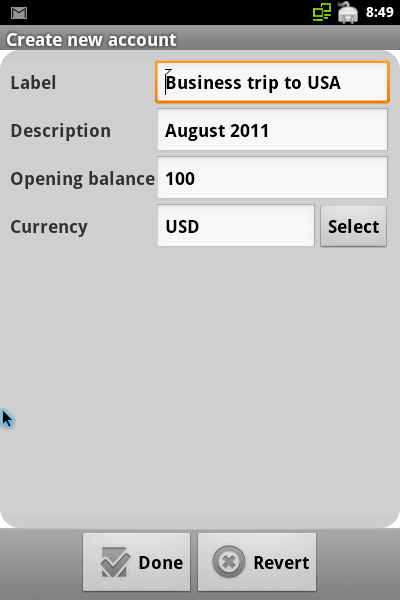
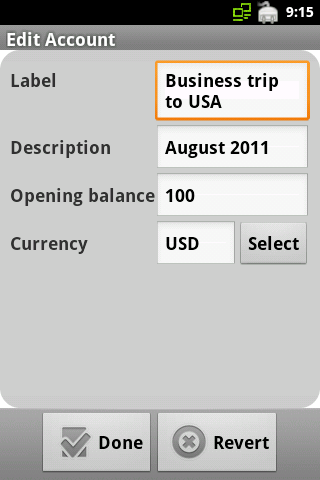
generated from SHA: 4768e51; screenshots in dimensions required by Google play,

diff --git a/index.html b/index.html
@@ -71,19 +71,19 @@
         If you are adventurous, you can try an alpha release of a new versions in the <a href="https://github.com/mtotschnig/MyExpenses/downloads">Downloads</a> section.
       </p>
       <h2>Screenshots</h2>
-      <div style="display:block;text-align:center"><img alt="Screenshot 1" src="expense-list.png" height="420" width="280" /></div>
+      <div style="display:block;text-align:center"><img alt="Screenshot 1" src="expense-list.png" height="480" width="320" /></div>
       <div style="text-align:center">List of expenses
       </div>
-      <div style="display:block;text-align:center"><img alt="Screenshot 2" src="edit-expense.png" height="420" width="280" /></div>
+      <div style="display:block;text-align:center"><img alt="Screenshot 2" src="edit-expense.png" height="480" width="320" /></div>
       <div style="text-align:center">Edit expense
       </div>
-      <div style="display:block;text-align:center"><img alt="Screenshot 3" src="category_select.png" height="420" width="280" /></div>
+      <div style="display:block;text-align:center"><img alt="Screenshot 3" src="category_select.png" height="480" width="320" /></div>
       <div style="text-align:center">Select category
       </div>
-      <div style="display:block;text-align:center"><img alt="Screenshot 4" src="accounts.png" height="420" width="280" /></div>
+      <div style="display:block;text-align:center"><img alt="Screenshot 4" src="accounts.png" height="480" width="320" /></div>
       <div style="text-align:center">Manage accounts
       </div>
-      <div style="display:block;text-align:center"><img alt="Screenshot 4" src="edit-account.png" height="420" width="280" /></div>
+      <div style="display:block;text-align:center"><img alt="Screenshot 4" src="edit-account.png" height="480" width="320" /></div>
       <div style="text-align:center">Edit account
       </div>
       <h2>Tutorial</h2>

diff --git a/tutorial/de/tutorial5.html b/tutorial/de/tutorial5.html
@@ -23,7 +23,11 @@
       
       <span lang="de">Backup und Wiederherstellung</span>
       
-    </a></span></dt></dl></div><div class="sect1" title="Backup und Wiederherstellung"><div class="titlepage"><div><div><h2 class="title" style="clear: both"><a name="tutorial5"></a>
+    </a></span></dt></dl></div><div><p lang="de" class="releaseinfo">Diese Ausgabe (1) der Anleitung beschreibt Versionen
+  von <span class="application">Meine Ausgaben</span> vor 1.4.8. Vergessen Sie nicht, die App
+   <a class="ulink" href="market://details?id=org.totschnig.myexpenses" target="_top">upzudaten</a> und sehen Sie sich die <a class="ulink" href="../../tutorial_r2/de/introduction.html" target="_top">aktuelle Ausgabe</a> (2)
+  dieses Dokumentes an.
+  </p></div><div class="sect1" title="Backup und Wiederherstellung"><div class="titlepage"><div><div><h2 class="title" style="clear: both"><a name="tutorial5"></a>
       
       
       <span lang="de">Backup und Wiederherstellung</span>

diff --git a/tutorial/de/tutorial3.html b/tutorial/de/tutorial3.html
@@ -23,7 +23,11 @@
       
       <span lang="de">Backup und Wiederherstellung</span>
       
-    </a></span></dt></dl></div><div class="sect1" title="Verwaltung der Kategorien"><div class="titlepage"><div><div><h2 class="title" style="clear: both"><a name="tutorial3"></a>    
+    </a></span></dt></dl></div><div><p lang="de" class="releaseinfo">Diese Ausgabe (1) der Anleitung beschreibt Versionen
+  von <span class="application">Meine Ausgaben</span> vor 1.4.8. Vergessen Sie nicht, die App
+   <a class="ulink" href="market://details?id=org.totschnig.myexpenses" target="_top">upzudaten</a> und sehen Sie sich die <a class="ulink" href="../../tutorial_r2/de/introduction.html" target="_top">aktuelle Ausgabe</a> (2)
+  dieses Dokumentes an.
+  </p></div><div class="sect1" title="Verwaltung der Kategorien"><div class="titlepage"><div><div><h2 class="title" style="clear: both"><a name="tutorial3"></a>    
       
       
       <span lang="de">Verwaltung der Kategorien</span>

diff --git a/tutorial/de/tutorial2.html b/tutorial/de/tutorial2.html
@@ -23,7 +23,11 @@
       
       <span lang="de">Backup und Wiederherstellung</span>
       
-    </a></span></dt></dl></div><div class="sect1" title="Verwaltung der Buchungen"><div class="titlepage"><div><div><h2 class="title" style="clear: both"><a name="tutorial2"></a>
+    </a></span></dt></dl></div><div><p lang="de" class="releaseinfo">Diese Ausgabe (1) der Anleitung beschreibt Versionen
+  von <span class="application">Meine Ausgaben</span> vor 1.4.8. Vergessen Sie nicht, die App
+   <a class="ulink" href="market://details?id=org.totschnig.myexpenses" target="_top">upzudaten</a> und sehen Sie sich die <a class="ulink" href="../../tutorial_r2/de/introduction.html" target="_top">aktuelle Ausgabe</a> (2)
+  dieses Dokumentes an.
+  </p></div><div class="sect1" title="Verwaltung der Buchungen"><div class="titlepage"><div><div><h2 class="title" style="clear: both"><a name="tutorial2"></a>
       
       
       <span lang="de">Verwaltung der Buchungen</span>

diff --git a/tutorial/de/tutorial1.html b/tutorial/de/tutorial1.html
@@ -23,7 +23,11 @@
       
       <span lang="de">Backup und Wiederherstellung</span>
       
-    </a></span></dt></dl></div><div class="sect1" title="Verwaltung der Konten"><div class="titlepage"><div><div><h2 class="title" style="clear: both"><a name="tutorial1"></a>
+    </a></span></dt></dl></div><div><p lang="de" class="releaseinfo">Diese Ausgabe (1) der Anleitung beschreibt Versionen
+  von <span class="application">Meine Ausgaben</span> vor 1.4.8. Vergessen Sie nicht, die App
+   <a class="ulink" href="market://details?id=org.totschnig.myexpenses" target="_top">upzudaten</a> und sehen Sie sich die <a class="ulink" href="../../tutorial_r2/de/introduction.html" target="_top">aktuelle Ausgabe</a> (2)
+  dieses Dokumentes an.
+  </p></div><div class="sect1" title="Verwaltung der Konten"><div class="titlepage"><div><div><h2 class="title" style="clear: both"><a name="tutorial1"></a>
       
       
       <span lang="de">Verwaltung der Konten</span>

diff --git a/tutorial/de/tutorial4.html b/tutorial/de/tutorial4.html
@@ -23,7 +23,11 @@
       
       <span lang="de">Backup und Wiederherstellung</span>
       
-    </a></span></dt></dl></div><div class="sect1" title="Buchungen exportieren"><div class="titlepage"><div><div><h2 class="title" style="clear: both"><a name="tutorial4"></a>
+    </a></span></dt></dl></div><div><p lang="de" class="releaseinfo">Diese Ausgabe (1) der Anleitung beschreibt Versionen
+  von <span class="application">Meine Ausgaben</span> vor 1.4.8. Vergessen Sie nicht, die App
+   <a class="ulink" href="market://details?id=org.totschnig.myexpenses" target="_top">upzudaten</a> und sehen Sie sich die <a class="ulink" href="../../tutorial_r2/de/introduction.html" target="_top">aktuelle Ausgabe</a> (2)
+  dieses Dokumentes an.
+  </p></div><div class="sect1" title="Buchungen exportieren"><div class="titlepage"><div><div><h2 class="title" style="clear: both"><a name="tutorial4"></a>
       
       
       <span lang="de">Buchungen exportieren</span>

diff --git a/tutorial/en/tutorial3.html b/tutorial/en/tutorial3.html
@@ -23,7 +23,11 @@
       
       
       
-    </a></span></dt></dl></div><div class="sect1" title="Managing categories"><div class="titlepage"><div><div><h2 class="title" style="clear: both"><a name="tutorial3"></a>    
+    </a></span></dt></dl></div><div><p lang="en" class="releaseinfo">This release (1) of the tutorial describes versions of
+    <span class="application">My Expenses</span> below 1.4.8. Please consider <a class="ulink" href="market://details?id=org.totschnig.myexpenses" target="_top">upgrading</a> and
+    consult the <a class="ulink" href="../../tutorial_r2/en/introduction.html" target="_top">current
+    release</a> (2) of this document.
+  </p></div><div class="sect1" title="Managing categories"><div class="titlepage"><div><div><h2 class="title" style="clear: both"><a name="tutorial3"></a>    
       <span lang="en">Managing categories</span>
       
       
